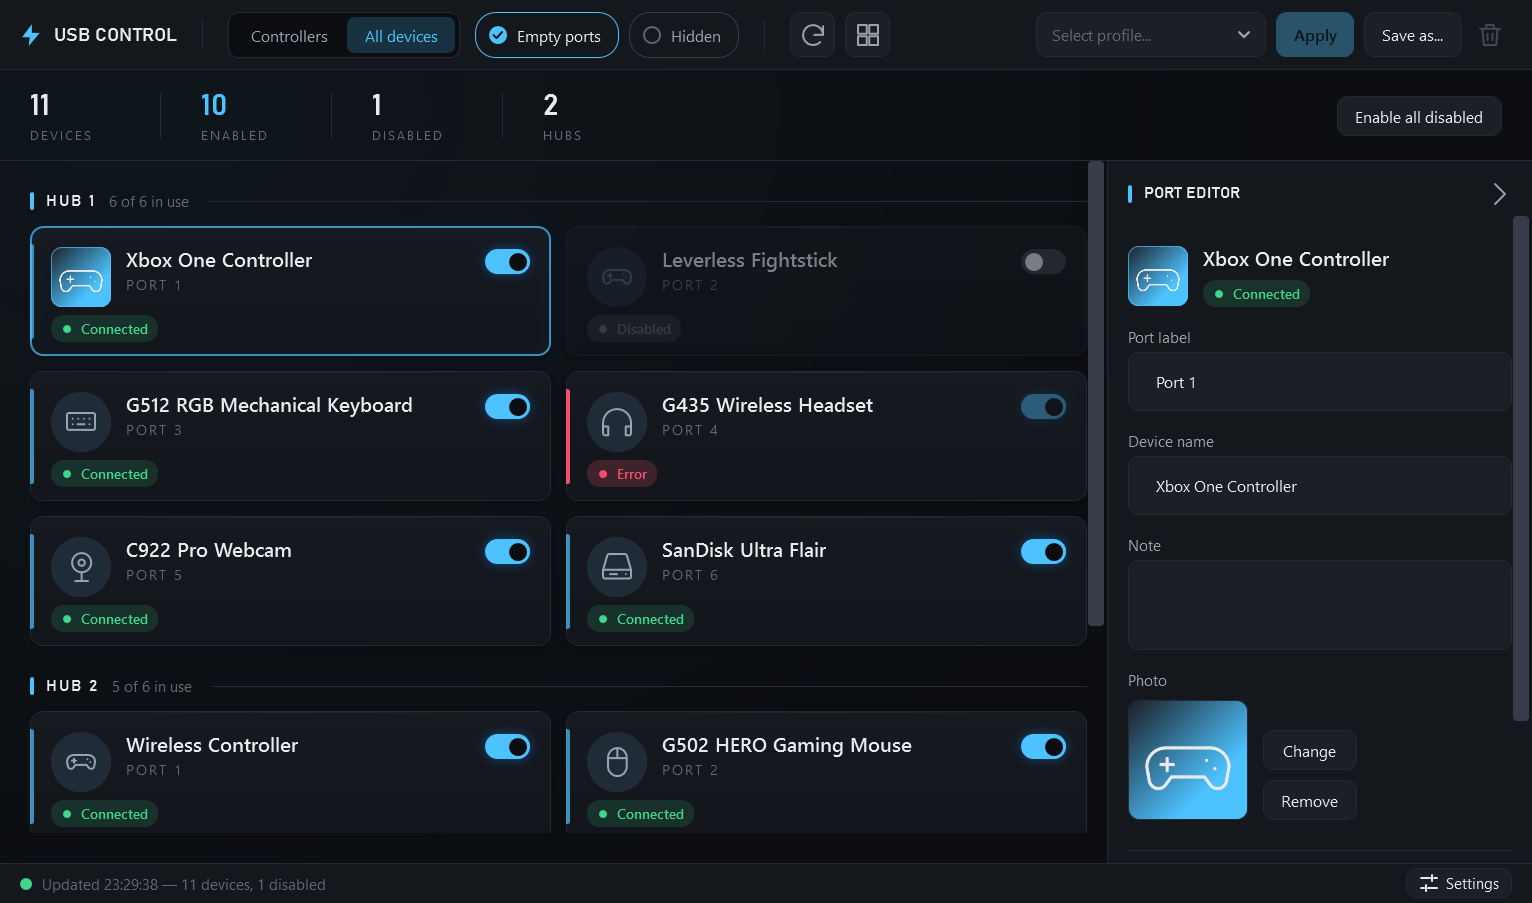
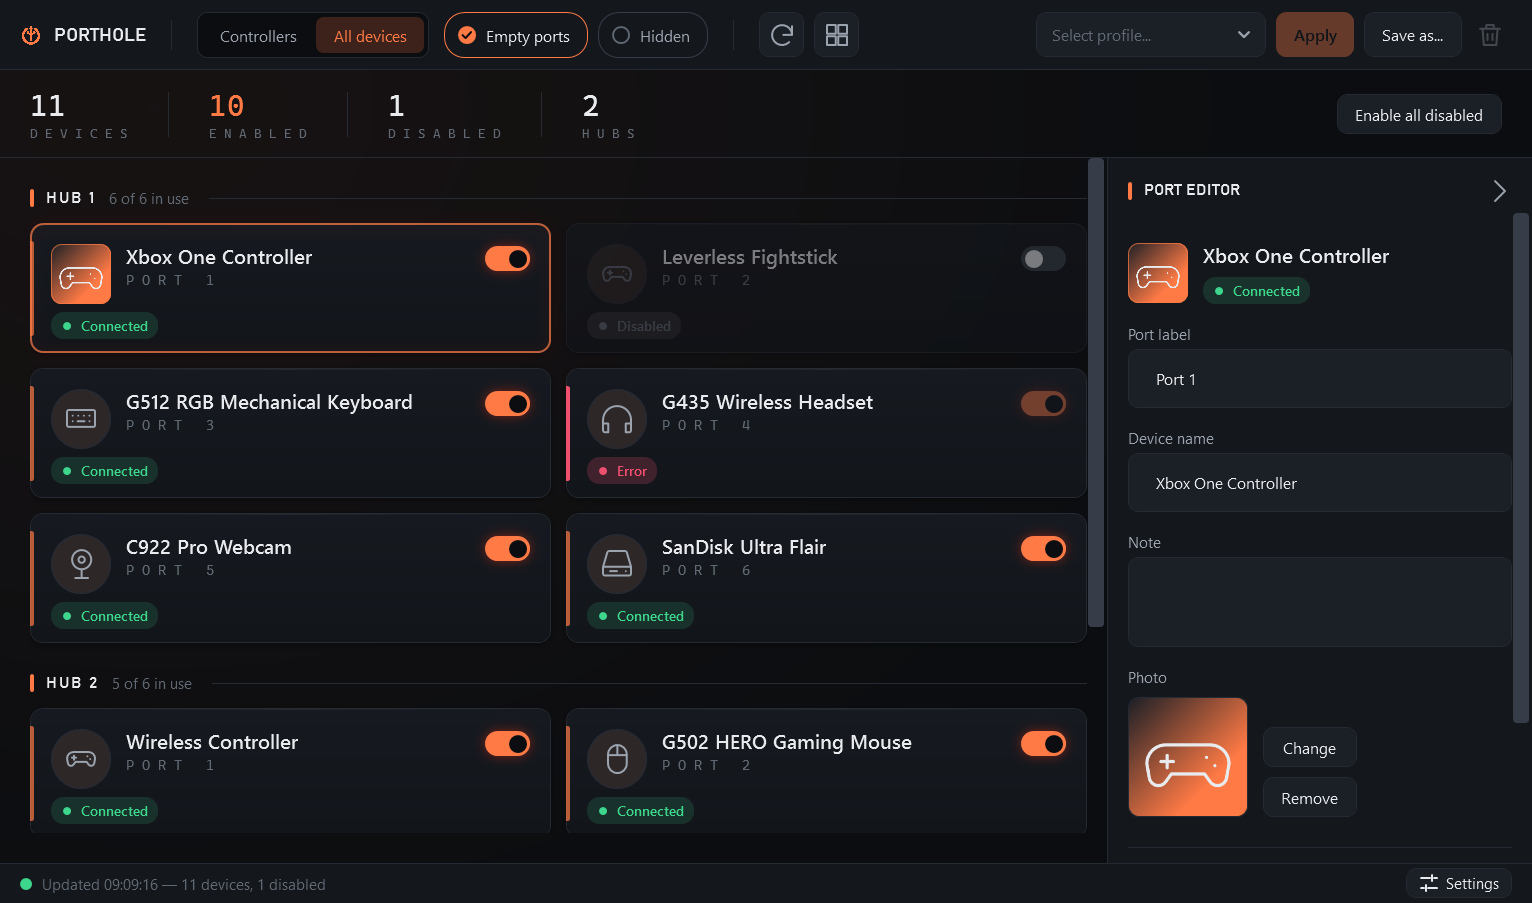
Rebrand USB Control to Porthole
Applies the Porthole brand package (icon, mark, wordmark, tangerine accent, reserved-mint
active-profile indicator, Bricolage Grotesque / Space Mono typography) throughout the app and
docs, while keeping internal/back-compat details unchanged (see the new README Naming section):
GitHub repo slug, %APPDATA%\USBControl\ store path, and USBControl.* project/namespace names.

- New app icon (a proper multi-size .ico built from the kit's individually-sized PNGs, since the
  kit's own primary/ico/porthole.ico is a single 16x16 frame) and a fixed-brand-color tray icon
  and toolbar mark, loaded straight from the kit's PNGs instead of hand-drawn
- Window title, tray tooltip/menu/balloons, MessageBox titles and Settings dialog renamed
- Tangerine (#FF7A45) added as a 6th accent palette and made the default; mint (#46E3A0) is a new,
  separately-defined brush reserved for a small "ACTIVE <profile>" pill, never reused elsewhere
- FontHeading/FontMono fall through to Bricolage Grotesque / Space Mono first (the kit ships no
  font files, so this degrades to the previous fonts on machines without them installed); applied
  Space Mono to the summary-band counts and port-label captions per the kit's typography note
- Built exe renamed to Porthole.exe (AssemblyName/AssemblyTitle/Product); CI workflow and README
  updated to match
- README: renamed, re-screenshotted from the new build, added the undo/safety section's Porthole
[…]

diff --git a/src/USBControl.App/MainWindow.xaml b/src/USBControl.App/MainWindow.xaml
@@ -2,8 +2,8 @@
         xmlns="http://schemas.microsoft.com/winfx/2006/xaml/presentation"
         xmlns:x="http://schemas.microsoft.com/winfx/2006/xaml"
         xmlns:svc="clr-namespace:USBControl.App.Services"
-        Title="USB Control" Height="760" Width="1240" MinHeight="600" MinWidth="1040"
-        Icon="Assets/usb.ico"
+        Title="Porthole" Height="760" Width="1240" MinHeight="600" MinWidth="1040"
+        Icon="Assets/porthole.ico"
         Style="{StaticResource {x:Type Window}}">
 
   <!-- All colors, sizes, fonts and radii come from Themes/Theme.xaml; the port tile and
@@ -23,6 +23,19 @@
 
         <!-- right: profiles -->
         <StackPanel DockPanel.Dock="Right" Orientation="Horizontal" VerticalAlignment="Center">
+          <!-- brand mint, reserved for this one indicator: the profile currently applied -->
+          <Border Background="{StaticResource NeutralSoftBrush}" CornerRadius="{StaticResource RadiusPill}"
+                  Padding="10,5" Margin="0,0,8,0"
+                  Visibility="{Binding Controller.ActiveProfile, Converter={StaticResource NullToVis}}">
+            <StackPanel Orientation="Horizontal">
+              <Ellipse Width="{StaticResource ChipDotSize}" Height="{StaticResource ChipDotSize}"
+                       Fill="{StaticResource ProfileActiveBrush}" VerticalAlignment="Center" Margin="0,0,6,0" />
+              <TextBlock Foreground="{StaticResource ProfileActiveBrush}" FontSize="{StaticResource FontSizeChip}"
+                         FontWeight="SemiBold" VerticalAlignment="Center">
+                <Run Text="ACTIVE" /> <Run Text="{Binding Controller.ActiveProfile, Mode=OneWay}" />
+              </TextBlock>
+            </StackPanel>
+          </Border>
           <ComboBox x:Name="ProfileBox" ItemsSource="{Binding Controller.ProfileList}"
                     SelectedItem="{Binding SelectedProfile}" DisplayMemberPath="Name"
                     Tag="Select profile..." Width="{StaticResource ProfileBoxWidth}" />
@@ -37,10 +50,11 @@
 
         <!-- left: brand, view filters, actions -->
         <StackPanel Orientation="Horizontal" VerticalAlignment="Center">
-          <Path Data="{StaticResource IconBolt}" Fill="{DynamicResource AccentBrush}"
-                Width="{StaticResource ToolbarGlyphSize}" Height="{StaticResource ToolbarGlyphSize}"
-                Stretch="Uniform" VerticalAlignment="Center" />
-          <TextBlock Text="USB CONTROL" Style="{StaticResource AppTitle}" Margin="10,0,0,0" />
+          <!-- brand mark: fixed tangerine, independent of the user's chosen accent palette -->
+          <Image Source="pack://application:,,,/Assets/porthole-mark.png"
+                 Width="{StaticResource ToolbarGlyphSize}" Height="{StaticResource ToolbarGlyphSize}"
+                 Stretch="Uniform" VerticalAlignment="Center" />
+          <TextBlock Text="PORTHOLE" Style="{StaticResource AppTitle}" Margin="10,0,0,0" />
 
           <Border Width="1" Height="24" Background="{StaticResource BorderBrush}" Margin="20,0" />
 

diff --git a/src/USBControl.App/Themes/Theme.xaml b/src/USBControl.App/Themes/Theme.xaml
@@ -36,6 +36,10 @@
 
   <!-- status (device state only, never chrome) -->
   <Color x:Key="GoodColor">#FF3DD68C</Color>
+
+  <!-- Porthole brand: mint, reserved ONLY for "this profile is active" — never reused as a
+       general status color, even though it sits near GoodColor on the wheel. -->
+  <Color x:Key="ProfileActiveColor">#FF46E3A0</Color>
   <Color x:Key="WarnColor">#FFF5A524</Color>
   <Color x:Key="BadColor">#FFF0506E</Color>
 
@@ -70,6 +74,7 @@
   <SolidColorBrush x:Key="TextOnAccentBrush" Color="{StaticResource TextOnAccentColor}" />
 
   <SolidColorBrush x:Key="GoodBrush" Color="{StaticResource GoodColor}" />
+  <SolidColorBrush x:Key="ProfileActiveBrush" Color="{StaticResource ProfileActiveColor}" />
   <SolidColorBrush x:Key="WarnBrush" Color="{StaticResource WarnColor}" />
   <SolidColorBrush x:Key="BadBrush" Color="{StaticResource BadColor}" />
   <SolidColorBrush x:Key="GoodSoftBrush" Color="{StaticResource GoodSoftColor}" />
@@ -89,8 +94,10 @@
   <!-- ===================== typography ===================== -->
 
   <FontFamily x:Key="FontBody">Segoe UI Variable, Segoe UI</FontFamily>
-  <FontFamily x:Key="FontHeading">Bahnschrift SemiBold, Bahnschrift, Segoe UI Semibold</FontFamily>
-  <FontFamily x:Key="FontMono">Cascadia Mono, Consolas</FontFamily>
+  <!-- Porthole brand fonts (Bricolage Grotesque / Space Mono); both fall through to the
+       previous choices when not installed, since the kit ships no font files to embed. -->
+  <FontFamily x:Key="FontHeading">Bricolage Grotesque, Bricolage Grotesque SemiBold, Bahnschrift SemiBold, Segoe UI Semibold</FontFamily>
+  <FontFamily x:Key="FontMono">Space Mono, Cascadia Mono, Consolas</FontFamily>
 
   <sys:Double x:Key="FontSizeTitle">15</sys:Double>
   <sys:Double x:Key="FontSizeName">16</sys:Double>

diff --git a/src/USBControl.App/Themes/Dark.xaml b/src/USBControl.App/Themes/Dark.xaml
@@ -42,14 +42,16 @@
     <Setter Property="Background" Value="{DynamicResource AccentBrush}" />
   </Style>
 
-  <!-- summary band: big number over a small tracked-out label -->
+  <!-- summary band: big number over a small tracked-out label. Brand: counts read in Space
+       Mono, like the port IDs/labels elsewhere (Tiles.xaml PortCaption, MonoMeta). -->
   <Style x:Key="StatValue" TargetType="TextBlock">
-    <Setter Property="FontFamily" Value="{StaticResource FontHeading}" />
+    <Setter Property="FontFamily" Value="{StaticResource FontMono}" />
     <Setter Property="FontSize" Value="{StaticResource FontSizeStat}" />
     <Setter Property="Foreground" Value="{StaticResource TextBrush}" />
   </Style>
 
   <Style x:Key="StatLabel" TargetType="TextBlock">
+    <Setter Property="FontFamily" Value="{StaticResource FontMono}" />
     <Setter Property="FontSize" Value="{StaticResource FontSizeStatLabel}" />
     <Setter Property="Foreground" Value="{StaticResource TextMutedBrush}" />
     <Setter Property="Margin" Value="0,2,0,0" />

diff --git a/src/USBControl.App/Themes/Tiles.xaml b/src/USBControl.App/Themes/Tiles.xaml
@@ -17,6 +17,7 @@
   <svc:BoolToVisibilityConverter x:Key="InverseBoolToVis" Inverse="True" />
   <svc:KindToGeometryConverter x:Key="KindToGeometry" />
   <svc:InverseBoolConverter x:Key="InverseBool" />
+  <svc:NullToVisibilityConverter x:Key="NullToVis" />
 
   <!-- device-type glyph (inside the icon well) -->
   <Style x:Key="TileGlyph" TargetType="Path" BasedOn="{StaticResource IconPath}">
@@ -267,7 +268,7 @@
                   </TextBlock.Style>
                 </TextBlock>
                 <TextBlock Text="{Binding PortCaption}" Margin="0,3,0,0" TextTrimming="CharacterEllipsis"
-                           FontSize="{StaticResource FontSizeMicro}"
+                           FontFamily="{StaticResource FontMono}" FontSize="{StaticResource FontSizeMicro}"
                            Foreground="{StaticResource TextMutedBrush}" />
               </StackPanel>
 

diff --git a/src/USBControl.App/Services/TrayIconController.cs b/src/USBControl.App/Services/TrayIconController.cs
@@ -5,8 +5,6 @@ using System.Windows;
 using System.Windows.Controls;
 using System.Windows.Controls.Primitives;
 using System.Windows.Interop;
-using System.Windows.Media;
-using System.Windows.Media.Imaging;
 using USBControl.Core;
 
 namespace USBControl.App.Services;
@@ -186,7 +184,7 @@ public sealed class TrayIconController : IDisposable
     {
         var menu = new ContextMenu();
 
-        var open = new MenuItem { Header = "Open USB Control", FontWeight = FontWeights.SemiBold };
+        var open = new MenuItem { Header = "Open Porthole", FontWeight = FontWeights.SemiBold };
         open.Click += (_, _) => ShowFromTray();
         menu.Items.Add(open);
 
@@ -232,7 +230,7 @@ public sealed class TrayIconController : IDisposable
             return;
         _vm.SelectedProfile = profile;
         await _controller.ApplyProfileAsync(profile);
-        ShowBalloon("USB Control", _controller.StatusText);
+        ShowBalloon("Porthole", _controller.StatusText);
     }
 
     // ---------------- tooltip / balloon ----------------
@@ -240,7 +238,7 @@ public sealed class TrayIconController : IDisposable
     private void OnControllerPropertyChanged(object? sender, PropertyChangedEventArgs e)
     {
         if (e.PropertyName is nameof(AppController.StatusText) or nameof(AppController.IsBusy))
-            UpdateTooltip("USB Control — " + _controller.StatusText);
+            UpdateTooltip("Porthole — " + _controller.StatusText);
     }
 
     private void UpdateTooltip(string text)
@@ -283,52 +281,28 @@ public sealed class TrayIconController : IDisposable
     {
         var nid = NewNid();
         nid.uFlags = NIF_MESSAGE | NIF_ICON | NIF_TIP;
-        nid.szTip = "USB Control";
+        nid.szTip = "Porthole";
         _iconAdded = Shell_NotifyIconW(NIM_ADD, ref nid);
     }
 
-    // ---------------- icon rendering (code-drawn USB glyph) ----------------
+    // ---------------- icon rendering (Porthole brand mark) ----------------
 
+    /// <summary>
+    /// Loads the packaged 32x32 tray-icon PNG and hands its raw bytes straight to
+    /// CreateIconFromResourceEx, which expects raw icon resource bits (for PNG, that is the PNG
+    /// itself — wrapping it in an .ico file header makes the call fail and return NULL, leaving
+    /// the tray entry with no image). Fixed brand colors: the tray glyph does not re-tint with
+    /// the user's chosen accent palette, matching how most apps keep their logo mark constant.
+    /// </summary>
     private static IntPtr CreateTrayIconHandle()
     {
-        var accent = new SolidColorBrush((Color)Application.Current.Resources["AccentColor"]);
-        accent.Freeze();
-        var bg = new SolidColorBrush((Color)Application.Current.Resources["RaisedColor"]);
-        bg.Freeze();
+        var uri = new Uri("pack://application:,,,/Assets/porthole-tray-32.png");
+        using var stream = Application.GetResourceStream(uri)?.Stream;
+        if (stream is null)
+            return IntPtr.Zero;
 
-        var dv = new DrawingVisual();
-        using (var dc = dv.RenderOpen())
-        {
-            var plate = new RectangleGeometry(new Rect(1.5, 1.5, 29, 29), 7, 7);
-            plate.Freeze();
-            dc.DrawGeometry(bg, null, plate);
-
-            var pen = new Pen(accent, 3)
-            {
-                StartLineCap = PenLineCap.Round,
-                EndLineCap = PenLineCap.Round,
-            };
-            pen.Freeze();
-
-            dc.DrawLine(pen, new Point(16, 6), new Point(16, 11)); // prong tip
-            var body = new RectangleGeometry(new Rect(13, 11, 6, 12), 2, 2);
-            body.Freeze();
-            dc.DrawGeometry(null, pen, body);                      // connector body
-            var cable = new RectangleGeometry(new Rect(14.5, 23, 3, 5), 1.5, 1.5);
-            cable.Freeze();
-            dc.DrawGeometry(accent, null, cable);                  // cable stub
-        }
-
-        var rtb = new RenderTargetBitmap(32, 32, 96, 96, PixelFormats.Pbgra32);
-        rtb.Render(dv);
-        var encoder = new PngBitmapEncoder();
-        encoder.Frames.Add(BitmapFrame.Create(rtb));
         using var ms = new MemoryStream();
-        encoder.Save(ms);
-
-        // CreateIconFromResourceEx takes raw icon resource bits; for PNG that is the PNG itself.
-        // (Wrapping it in an .ico file header makes the call fail and return NULL, which left
-        // the tray entry with no image, so nothing was visible.)
+        stream.CopyTo(ms);
         var png = ms.ToArray();
         return CreateIconFromResourceEx(png, (uint)png.Length, fIcon: true,
             dwVer: 0x00030000, 32, 32, flags: 0);

diff --git a/src/USBControl.App/App.xaml.cs b/src/USBControl.App/App.xaml.cs
@@ -40,7 +40,7 @@ public partial class App : Application
                 // never let logging itself take the app down
             }
 
-            MessageBox.Show(args.Exception.Message, "USB Control — unexpected error",
+            MessageBox.Show(args.Exception.Message, "Porthole — unexpected error",
                 MessageBoxButton.OK, MessageBoxImage.Error);
             args.Handled = true;
         };
@@ -72,8 +72,8 @@ public partial class App : Application
             // Relaunched with the marker but still not admin (e.g. UAC declined twice) —
             // say why instead of showing a mystery empty device list.
             MessageBox.Show(
-                "USB Control needs administrator rights to enable/disable devices (the same rights Device Manager uses).",
-                "USB Control — elevation required", MessageBoxButton.OK, MessageBoxImage.Warning);
+                "Porthole needs administrator rights to enable/disable devices (the same rights Device Manager uses).",
+                "Porthole — elevation required", MessageBoxButton.OK, MessageBoxImage.Warning);
             Shutdown();
             return;
         }
@@ -121,7 +121,7 @@ public partial class App : Application
 
         var win = new MainWindow();
         if (IsDemoMode)
-            win.Title = "USB Control — demo (simulated devices)";
+            win.Title = "Porthole — demo (simulated devices)";
         MainWindow = win;
         win.Show();
 

diff --git a/src/USBControl.App/Services/Accents.cs b/src/USBControl.App/Services/Accents.cs
@@ -24,12 +24,15 @@ public static class Accents
     public static readonly Palette Blood = new("Blood", Color.FromRgb(0xFF, 0x46, 0x55), Color.FromRgb(0x8A, 0x26, 0x30), Color.FromRgb(0x5C, 0x19, 0x20));
     public static readonly Palette Amber = new("Amber", Color.FromRgb(0xFF, 0xB4, 0x54), Color.FromRgb(0x8F, 0x62, 0x2D), Color.FromRgb(0x5F, 0x41, 0x1E));
 
-    public static readonly IReadOnlyList<Palette> All = new[] { Cyan, Violet, Toxic, Blood, Amber };
+    /// <summary>Porthole's brand accent (#FF7A45) — the default palette.</summary>
+    public static readonly Palette Tangerine = new("Tangerine", Color.FromRgb(0xFF, 0x7A, 0x45), Color.FromRgb(0x8F, 0x44, 0x27), Color.FromRgb(0x5E, 0x2D, 0x1A));
+
+    public static readonly IReadOnlyList<Palette> All = new[] { Tangerine, Cyan, Violet, Toxic, Blood, Amber };
 
     public static Palette Resolve(string? name) =>
-        All.FirstOrDefault(p => p.Name.Equals(name, StringComparison.OrdinalIgnoreCase)) ?? Cyan;
+        All.FirstOrDefault(p => p.Name.Equals(name, StringComparison.OrdinalIgnoreCase)) ?? Tangerine;
 
-    /// <summary>Applies the named palette (startup + live switching). Unknown names fall back to Cyan.</summary>
+    /// <summary>Applies the named palette (startup + live switching). Unknown names fall back to Tangerine.</summary>
     public static void Apply(string? name)
     {
         var p = Resolve(name);

diff --git a/src/USBControl.App/Services/SettingsWindow.cs b/src/USBControl.App/Services/SettingsWindow.cs
@@ -83,7 +83,7 @@ public static class SettingsWindow
         var panel = new StackPanel { Margin = SettingsPadding() };
         panel.Children.Add(new TextBlock
         {
-            Text = "USB Control runs elevated because enabling/disabling devices needs the same rights as Device Manager.",
+            Text = "Porthole runs elevated because enabling/disabling devices needs the same rights as Device Manager.",
             TextWrapping = TextWrapping.Wrap,
             FontSize = FontSizeMeta(),
             Foreground = Dim(),
@@ -108,7 +108,7 @@ public static class SettingsWindow
 
         var win = new Window
         {
-            Title = "USB Control — settings",
+            Title = "Porthole — settings",
             // The main window may be hidden in the tray; an invisible owner breaks modal centering.
             Owner = Application.Current?.MainWindow is { IsVisible: true } m ? m : null,
             Width = DialogWidth(),

diff --git a/src/USBControl.App/Services/ViewModels.cs b/src/USBControl.App/Services/ViewModels.cs
@@ -416,6 +416,16 @@ public sealed class BoolToVisibilityConverter : IValueConverter
         throw new NotSupportedException();
 }
 
+/// <summary>Non-empty string/non-null → Visible; used for the "active profile" pill (bound to ActiveProfile).</summary>
+public sealed class NullToVisibilityConverter : IValueConverter
+{
+    public object Convert(object? value, Type targetType, object? parameter, System.Globalization.CultureInfo culture) =>
+        (value is string s ? !string.IsNullOrEmpty(s) : value is not null) ? Visibility.Visible : Visibility.Collapsed;
+
+    public object ConvertBack(object? value, Type targetType, object? parameter, System.Globalization.CultureInfo culture) =>
+        throw new NotSupportedException();
+}
+
 /// <summary>Device kind ("controller", "mouse", …) → its line-icon geometry ("Icon" + Kind resource).</summary>
 public sealed class KindToGeometryConverter : IValueConverter
 {

diff --git a/src/USBControl.App/Services/DemoMode.cs b/src/USBControl.App/Services/DemoMode.cs
@@ -248,8 +248,8 @@ public static class DemoMode
         if (!File.Exists(dllPath))
         {
             MessageBox.Show(
-                "Demo mode needs USBControl.Testing.dll next to USBControl.exe (it ships with the published build).\n\nExpected at: " + dllPath,
-                "USB Control — demo mode", MessageBoxButton.OK, MessageBoxImage.Warning);
+                "Demo mode needs USBControl.Testing.dll next to Porthole.exe (it ships with the published build).\n\nExpected at: " + dllPath,
+                "Porthole — demo mode", MessageBoxButton.OK, MessageBoxImage.Warning);
             return null;
         }
 

diff --git a/src/USBControl.Core/Models.cs b/src/USBControl.Core/Models.cs
@@ -116,8 +116,8 @@ public sealed class AppSettings
     public bool MinimizeToTray { get; set; } = true;
     public string Theme { get; set; } = "Dark";
 
-    /// <summary>Neon accent palette name (see App: Accents catalog). One of Cyan/Violet/Toxic/Blood/Amber.</summary>
-    public string Accent { get; set; } = "Cyan";
+    /// <summary>Neon accent palette name (see App: Accents catalog). One of Tangerine/Cyan/Violet/Toxic/Blood/Amber.</summary>
+    public string Accent { get; set; } = "Tangerine";
 
     public string? LastProfile { get; set; }
 }

diff --git a/src/USBControl.App/Services/AppController.cs b/src/USBControl.App/Services/AppController.cs
@@ -98,7 +98,7 @@ public sealed partial class AppController : ObservableObject, IDisposable
             return;
         TryDeleteFlag();
         if (Confirm?.Invoke("Interrupted profile apply",
-                "USB Control closed while applying a profile, so some devices may have been left disabled.\n\nEnable every disabled device now?") == true)
+                "Porthole closed while applying a profile, so some devices may have been left disabled.\n\nEnable every disabled device now?") == true)
             _ = EnableAllDisabledAsync();
     }
 
